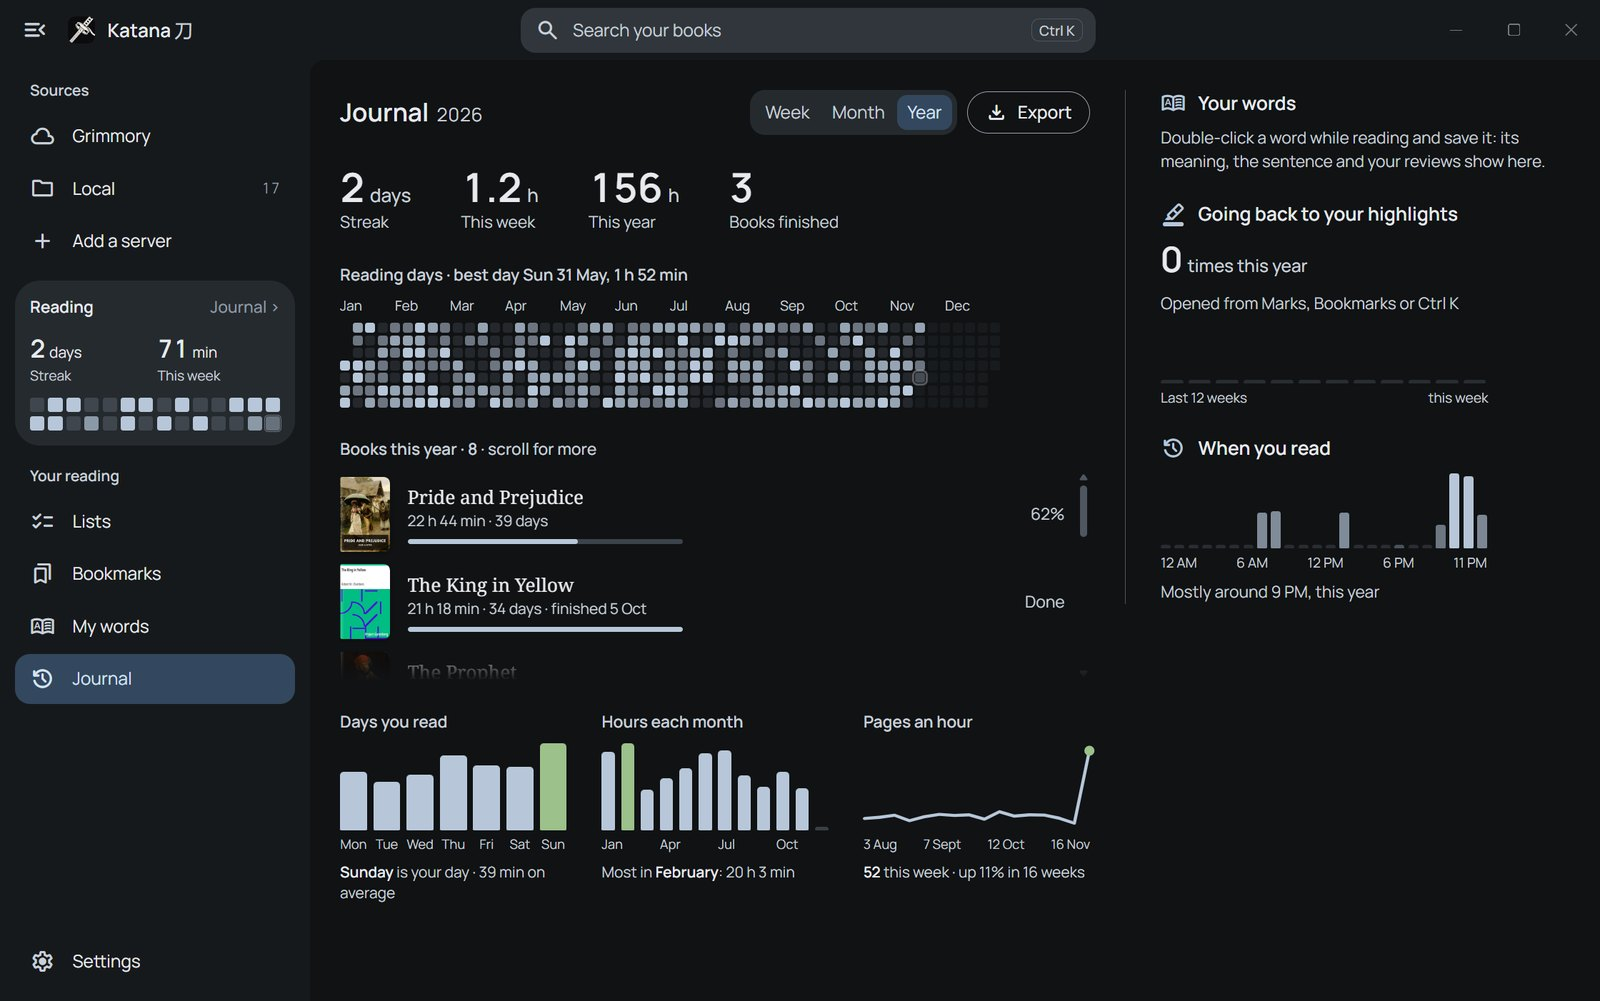
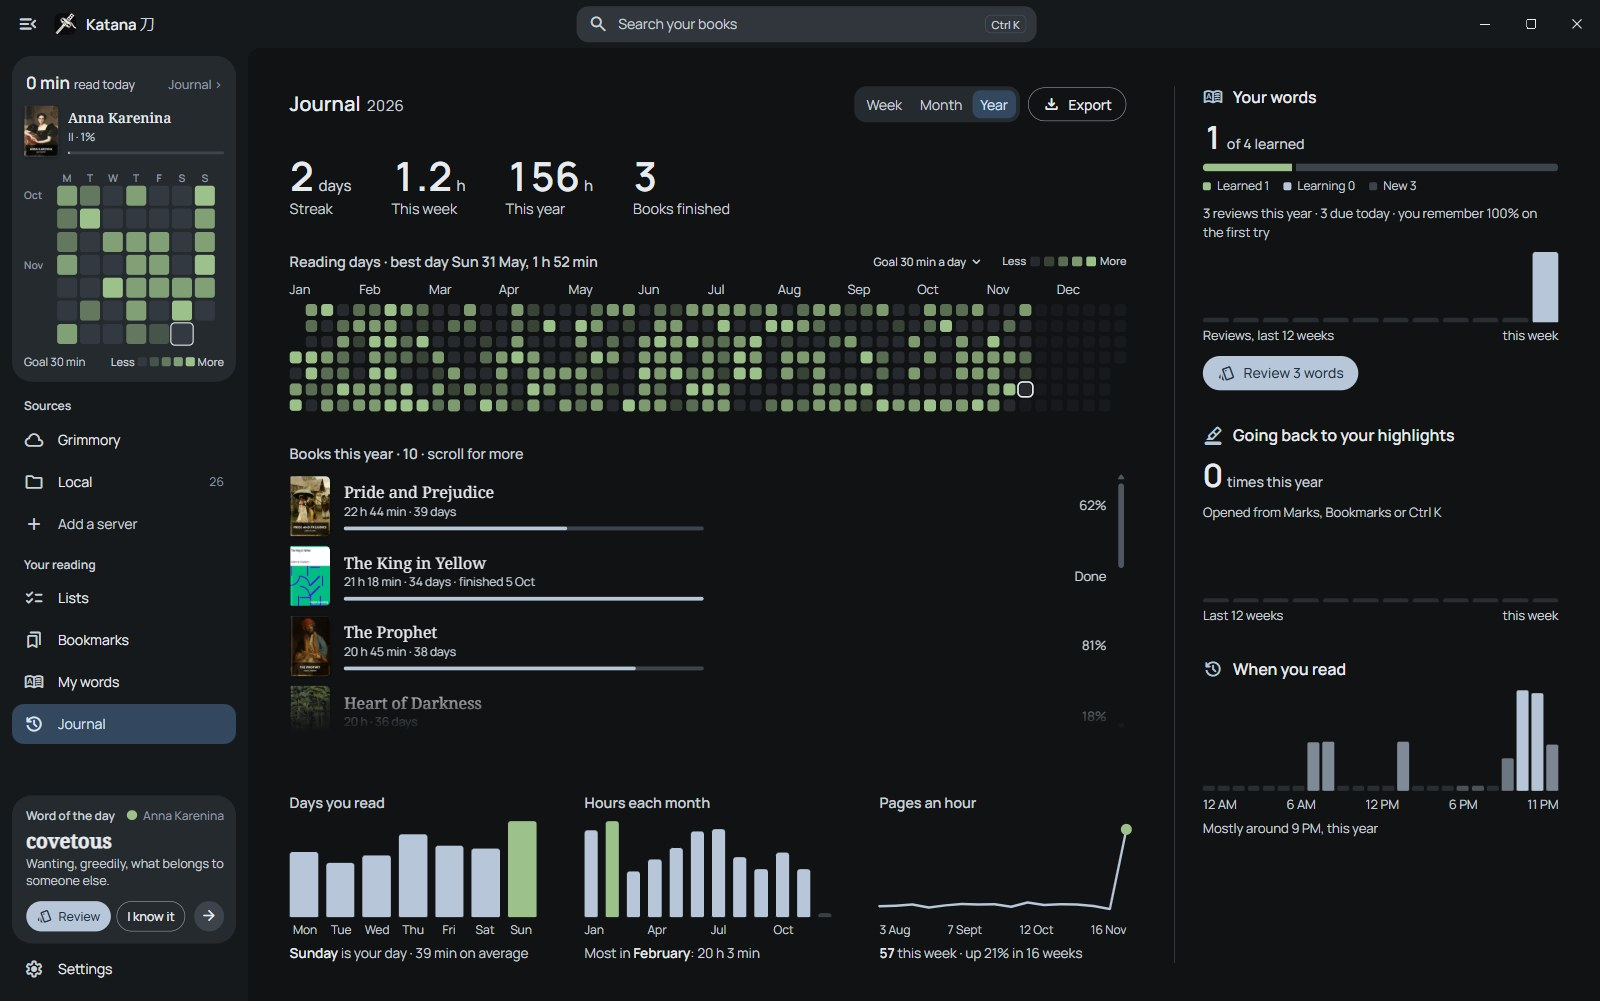
New screenshots with the new sidebar

diff --git a/README.md b/README.md
@@ -4,7 +4,7 @@
 
 <p align="center">A book reader for your computer that keeps up with your <a href="https://github.com/grimmory-tools/grimmory">Grimmory</a> server.<br>The desktop version of <a href="https://github.com/Dawit-Sh/Katana">Katana</a> (刀). Windows and Linux.</p>
 
-<p align="center"><img src="docs/screenshots/library.jpg" alt="The library: a grid of book covers in a dark window, with the sidebar on the left"></p>
+<p align="center"><img src="docs/screenshots/library.jpg" alt="The library: a grid of book covers in a dark window. The sidebar has today's reading, the book being read, the reading days as a calendar and a word of the day"></p>
 
 ## What it does
 
@@ -24,7 +24,7 @@
     <td><img src="docs/screenshots/word-card.jpg" alt="The word card for 'disconsolately', with Wiktionary and WordNet tabs and the sentence from the book"></td>
   </tr>
   <tr>
-    <td><img src="docs/screenshots/journal.jpg" alt="The Journal: a year of reading days, books this year and charts"></td>
+    <td><img src="docs/screenshots/journal.jpg" alt="The Journal: a year of reading days coloured by a daily goal, books this year and charts"></td>
     <td><img src="docs/screenshots/settings-paper.jpg" alt="Settings in the light Paper theme, showing the eight themes as little windows"></td>
   </tr>
 </table>
